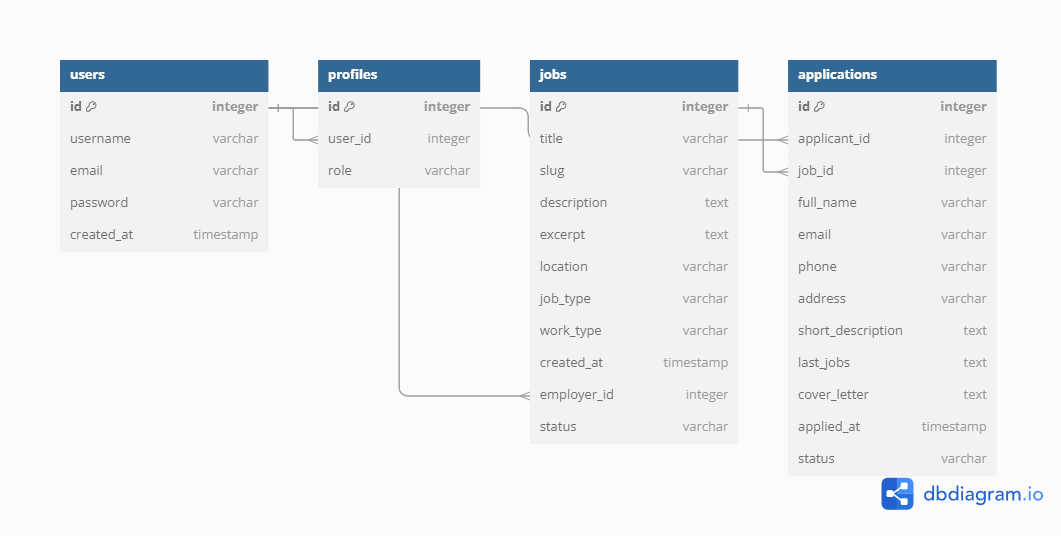
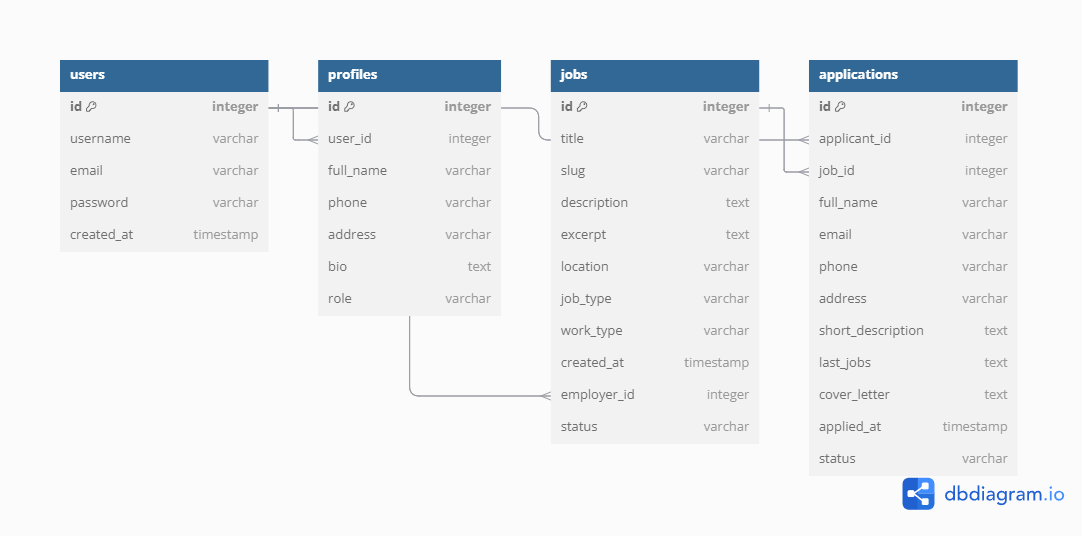
Updated database schema to store user role in the Profiles model and revised dbdiagram.io structure for clarity

diff --git a/README.md b/README.md
@@ -41,6 +41,8 @@ _Responsive design on various screen sizes_
 - **Search and Filter**: Job seekers can filter jobs by type, work type, and location, as well as search by keywords in the job title, description, or excerpt.
 - **Role-Based Authentication**: Employers and job seekers have different dashboard views and permissions based on their roles.
 - **Closed Jobs**: Jobs that are closed are no longer open for applications, ensuring employers stop receiving applications when needed.
+- **User Profile**: Implemented a user profile page where job seekers and employers can update their personal information (full name, email, phone, address, bio).
+- **Prefill Application Form**: Job seekers can prefill the application form with their profile details to streamline the application process.
 
 ### Features to be Added
 - **Notifications**: Implement notifications for employers when job applications are received and for job seekers when application status changes.
@@ -48,7 +50,7 @@ _Responsive design on various screen sizes_
 - **Employer Analytics**: Provide employers with analytics and insights about job postings (e.g., number of applications, views, etc.).
 - **Favorite Jobs**: Allow job seekers to save jobs they’re interested in and revisit them later.
 - **Email Verification**: Implement email verification during registration to ensure valid email addresses.
-- **User Profile**: Implement a user profile page, with all the information that can be automatically filled into the application.
+- **Profile Page Improvements**: Add the option for users to upload a profile picture, enhancing personalization and user experience.
 - **CV and Cover Letter Upload**: Users will have the option to upload their CV or cover letter directly when applying for jobs.
 
 ---
@@ -99,15 +101,15 @@ _PC - Homepage, Mobile - Register wireframes_
 
 ## Database Schema
 
-The data model for this project includes key entities such as users, jobs, and applications, all connected through foreign keys to create relationships between employers, job seekers, job listings, and applications.
+The data model for this project includes key entities such as users, profiles, jobs, and applications, all connected through foreign keys to create relationships between employers, job seekers, job listings, and applications.
 
 - **Database schema** was designed using **dbdiagram.io**.
 
 ![Database Schema](media/db-schema.png)
 _Overview of all DB models_
 
-- **Users**: This table stores user information and supports two distinct roles: employers (who can post jobs) and job seekers (who can apply for jobs). 
-It also includes standard fields like username, email, and password.
+- **Users**: This table stores core user information, including username, email, and password. 
+- **Profiles**: This table extends the User model and stores additional information such as user roles (either "Employer" or "Job Seeker") and contact details (full name, phone number, address, and bio).
 - **Jobs**: This table contains job postings created by employers. Each job includes details such as the title, description, location, job type (e.g., full-time, part-time), and work type (e.g., remote, on-site, hybrid). Each job is associated with an employer (via a foreign key reference to the users table).
 - **Applications**: This table tracks job applications submitted by job seekers for specific jobs. It includes fields like the applicant's name, contact information, and a cover letter, as well as the application status (e.g., under review, accepted, rejected). Each application is linked to both a job and a user (the applicant).
 
@@ -128,6 +130,10 @@ Extensive manual testing was conducted to ensure proper functionality of all key
 | Role-based access | Employers cannot access job seeker-only features | ✅ |
 | Admin can manage users and jobs from admin panel | Admin functionalities work correctly | ✅ |
 | Job status change (Open/Closed) | Job status is updated correctly, closed jobs not accepting applications | ✅ |
+| Prefill Application Form | Profile data (name, email, phone, address) is correctly prefilled | ✅ |
+| User Profile Update | Users can successfully update their profile details (full name, email, phone, address, bio) | ✅ |
+| Prevent login/register for authenticated users | Logged-in users are redirected from login/register pages to the dashboard | ✅ |
+
 
 ---
 
@@ -185,6 +191,7 @@ Security features were a key focus of the development process to protect sensiti
 - **Environment Variables**: Sensitive information such as secret keys and database credentials are stored in environment variables.
 - **Role-Based Authentication**: Access to features and content is restricted based on the user's role (employer or job seeker).
 - **Password Security**: Django's built-in authentication and password hashing features are used to ensure secure login and account management.
+- **Restricting Access**: Logged-in users are restricted from accessing the login and registration pages. They are automatically redirected to the dashboard when attempting to access these pages.
 
 ---
 
